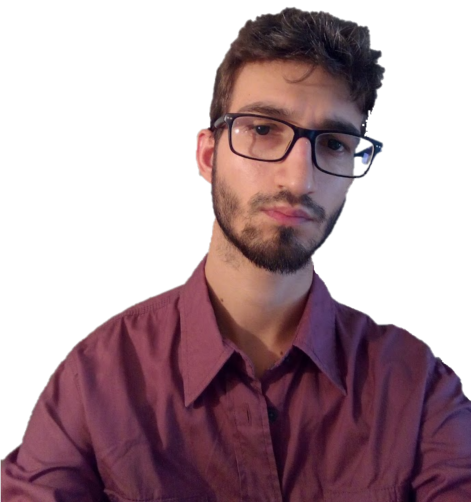
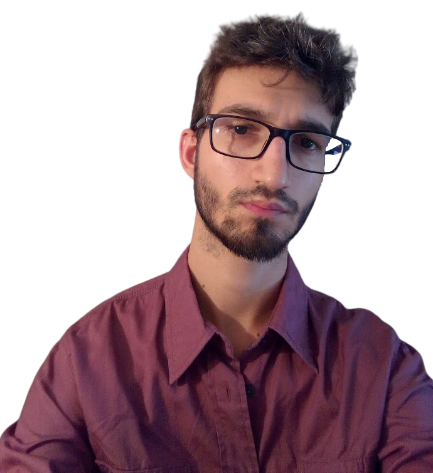
clean up images, fix footer responsiveness

diff --git a/about.html b/about.html
@@ -9,7 +9,7 @@
     <link rel="stylesheet" href="https://cdnjs.cloudflare.com/ajax/libs/font-awesome/6.1.0/css/all.min.css" integrity="sha512-10/jx2EXwxxWqCLX/hHth/vu2KY3jCF70dCQB8TSgNjbCVAC/8vai53GfMDrO2Emgwccf2pJqxct9ehpzG+MTw==" crossorigin="anonymous" referrerpolicy="no-referrer" />
     <link rel="preconnect" href="https://fonts.googleapis.com">
     <link rel="preconnect" href="https://fonts.gstatic.com" crossorigin>
-    <link href="https://fonts.googleapis.com/css2?family=Nunito+Sans:wght@200;400&family=Playfair+Display&family=Quicksand:wght@300&display=swap" rel="stylesheet">
+    <link href="https://fonts.googleapis.com/css2?family=Nunito+Sans:wght@200;400&family=Quicksand:wght@300&display=swap" rel="stylesheet">
     <title>Alessandro Belfiore</title>
 </head>
 <body>
@@ -48,14 +48,13 @@
             </div>
             <div class="row">
                 <div class="col hero">
-                    <!-- <div class="hero__background"></div> -->
-                    <div class="butterfly__div">
+                    <div class="butterfly__div centered">
                         <img class="butterfly" src="./img/butterfly.jpg" alt="picture of Alessandro">
                     </div>
                 </div>
                 <div class="col">
                     <p>I'm currently a student at the University of Pisa, where I got my BsC in Computer Science in 2020. I plan to achieve my MsC later in 2022 in the <i>Software: Programming and Principles</i> curriculum.</p>
-                    <p>I am particularly attracted to the study of the UX in different applications, spacing from websites to mobile apps and videogames. Hard core PC gamer, from Age of Empires to Portal, Skyrim and League of Legends I played dozens of different games. Besides playing, I enjoy discussing about design choices and balance, in particular in MMOs and competitive games, taking photos, going to the cinema and reading. And cats.</p>
+                    <p>I am attracted to the study of the UX in different applications, spacing from websites to mobile apps and videogames. Hard core PC gamer, from Age of Empires to Portal, Skyrim and League of Legends I played dozens of different games. Besides playing, I enjoy discussing about design choices and balance, in particular in MMOs and competitive games, taking photos, going to the cinema and reading. And cats.</p>
                 </div>
             </div>
             <hr class="divider">
@@ -67,13 +66,13 @@
 
     <footer class="footer">
         <div class="logos container">
-            <div class="row--mobile">
-                <ul class="logos__list">
+            <div class="row">
+                <ul class="centered logos__list">
                     <a href="https://github.com/alessandrobelfiore/" class="logos__link"><i class="fa-brands fa-github"></i></a>
                     <a href="" class="logos__link"><i class="fa-brands fa-linkedin"></i></a>
                     <a href="mailto:alessbelf@gmail.com" class="logos__link"><i class="fa-solid fa-envelope"></i></a>
                 </ul>
-                <div class="footer__copyright">
+                <div class="centered footer__copyright">
                     <h3 class="footer__text">Copyright &copy; 2022 Alessandro Belfiore</h3>
                 </div>
             </div>

diff --git a/projects.html b/projects.html
@@ -9,7 +9,7 @@
     <link rel="stylesheet" href="https://cdnjs.cloudflare.com/ajax/libs/font-awesome/6.1.0/css/all.min.css" integrity="sha512-10/jx2EXwxxWqCLX/hHth/vu2KY3jCF70dCQB8TSgNjbCVAC/8vai53GfMDrO2Emgwccf2pJqxct9ehpzG+MTw==" crossorigin="anonymous" referrerpolicy="no-referrer" />
     <link rel="preconnect" href="https://fonts.googleapis.com">
     <link rel="preconnect" href="https://fonts.gstatic.com" crossorigin>
-    <link href="https://fonts.googleapis.com/css2?family=Nunito+Sans:wght@200;400&family=Playfair+Display&family=Quicksand:wght@300&display=swap" rel="stylesheet">
+    <link href="https://fonts.googleapis.com/css2?family=Nunito+Sans:wght@200;400&family=Quicksand:wght@300&display=swap" rel="stylesheet">
     <title>Alessandro Belfiore</title>
 </head>
 <body>
@@ -66,7 +66,7 @@
                     <a  href="#"
                         class="project__link link"
                         target="_blank">
-                        <img src="img/zelda1.png" alt="unity2d project in game" class="project__image image--zelda">
+                        <img src="img/zelda.png" alt="unity2d project in game" class="project__image image--zelda">
                     </a>
                     </div>
                 <div class="col">
@@ -98,7 +98,7 @@
                     <a  href="https://github.com/alessandrobelfiore/SPM"
                         class="project__link link"
                         target="_blank">
-                        <img src="img/gol-gif1.gif" alt="cellular automaton" class="project__image image--cellular">
+                        <img src="img/gol.gif" alt="cellular automaton" class="project__image image--cellular">
                     </a>
                     </div>
                 <div class="col">
@@ -108,23 +108,18 @@
                     <p class="project__technologies">C++, FastFlow</p>
                 </div>
             </div>
-            
-<!--             <hr class="divider">
-            <div class="curriculum__download">
-                <a class="link--curriculum link" href="cv_march2022.pdf" download>Download my CV</a>
-            </div> -->
         </div>
     </div>
 
     <footer class="footer">
         <div class="logos container">
-            <div class="row--mobile">
-                <ul class="logos__list">
+            <div class="row">
+                <ul class="centered logos__list">
                     <a href="https://github.com/alessandrobelfiore/" class="logos__link"><i class="fa-brands fa-github"></i></a>
                     <a href="" class="logos__link"><i class="fa-brands fa-linkedin"></i></a>
                     <a href="mailto:alessbelf@gmail.com" class="logos__link"><i class="fa-solid fa-envelope"></i></a>
                 </ul>
-                <div class="footer__copyright">
+                <div class="centered footer__copyright">
                     <h3 class="footer__text">Copyright &copy; 2022 Alessandro Belfiore</h3>
                 </div>
             </div>

diff --git a/index.html b/index.html
@@ -9,7 +9,7 @@
     <link rel="stylesheet" href="https://cdnjs.cloudflare.com/ajax/libs/font-awesome/6.1.0/css/all.min.css" integrity="sha512-10/jx2EXwxxWqCLX/hHth/vu2KY3jCF70dCQB8TSgNjbCVAC/8vai53GfMDrO2Emgwccf2pJqxct9ehpzG+MTw==" crossorigin="anonymous" referrerpolicy="no-referrer" />
     <link rel="preconnect" href="https://fonts.googleapis.com">
     <link rel="preconnect" href="https://fonts.gstatic.com" crossorigin>
-    <link href="https://fonts.googleapis.com/css2?family=Nunito+Sans:wght@200;400&family=Playfair+Display&family=Quicksand:wght@300&display=swap" rel="stylesheet">
+    <link href="https://fonts.googleapis.com/css2?family=Nunito+Sans:wght@200;400&family=Quicksand:wght@300&display=swap" rel="stylesheet">
     <title>Alessandro Belfiore</title>
 </head>
 <body>
@@ -52,7 +52,7 @@
                 <div class="col">
                     <h2 style="font-weight: bold;">FrontEnd Developer / Coder</h2>
                     <hr class="divider">
-                    <p>I am particularly focused on the UX/UI of the projects. </p>
+                    <p>I am particularly focused on the UX/UI of my projects. </p>
                     <p>Lorem ipsum dolor sit amet consectetur adipisicing elit. Tempora adipisci illum eligendi inventore voluptas, ipsa porro fugit hic doloremque fuga accusantium molestias harum quae veniam blanditiis soluta! Inventore, saepe omnis?</p>   
                 </div>
             </div>
@@ -64,13 +64,13 @@
 
     <footer class="footer">
         <div class="logos container">
-            <div class="row--mobile">
-                <ul class="logos__list">
+            <div class="row">
+                <ul class="centered logos__list">
                     <a href="https://github.com/alessandrobelfiore/" class="logos__link"><i class="fa-brands fa-github"></i></a>
                     <a href="" class="logos__link"><i class="fa-brands fa-linkedin"></i></a>
                     <a href="mailto:alessbelf@gmail.com" class="logos__link"><i class="fa-solid fa-envelope"></i></a>
                 </ul>
-                <div class="footer__copyright">
+                <div class="centered footer__copyright">
                     <h3 class="footer__text">Copyright &copy; 2022 Alessandro Belfiore</h3>
                 </div>
             </div>

diff --git a/contacts.html b/contacts.html
@@ -9,7 +9,7 @@
     <link rel="stylesheet" href="https://cdnjs.cloudflare.com/ajax/libs/font-awesome/6.1.0/css/all.min.css" integrity="sha512-10/jx2EXwxxWqCLX/hHth/vu2KY3jCF70dCQB8TSgNjbCVAC/8vai53GfMDrO2Emgwccf2pJqxct9ehpzG+MTw==" crossorigin="anonymous" referrerpolicy="no-referrer" />
     <link rel="preconnect" href="https://fonts.googleapis.com">
     <link rel="preconnect" href="https://fonts.gstatic.com" crossorigin>
-    <link href="https://fonts.googleapis.com/css2?family=Nunito+Sans:wght@200;400&family=Playfair+Display&family=Quicksand:wght@300&display=swap" rel="stylesheet">
+    <link href="https://fonts.googleapis.com/css2?family=Nunito+Sans:wght@200;400&family=Quicksand:wght@300&display=swap" rel="stylesheet">
     <title>Alessandro Belfiore</title>
 </head>
 <body>
@@ -76,13 +76,13 @@
 
     <footer class="footer">
         <div class="logos container">
-            <div class="row--mobile">
-                <ul class="logos__list">
+            <div class="row">
+                <ul class="centered logos__list">
                     <a href="https://github.com/alessandrobelfiore/" class="logos__link"><i class="fa-brands fa-github"></i></a>
                     <a href="" class="logos__link"><i class="fa-brands fa-linkedin"></i></a>
                     <a href="mailto:alessbelf@gmail.com" class="logos__link"><i class="fa-solid fa-envelope"></i></a>
                 </ul>
-                <div class="footer__copyright">
+                <div class="centered footer__copyright">
                     <h3 class="footer__text">Copyright &copy; 2022 Alessandro Belfiore</h3>
                 </div>
             </div>

diff --git a/styles/style.css b/styles/style.css
@@ -39,31 +39,34 @@
 
 @media screen and (min-width: 550px) {
   .hero .image {
-    width: 392px;
-    height: 418px;
+    width: 393px;
+    height: 430px;
   }
   .hero__image {
-    width: 392px;
-    height: 418px;
+    width: 393px;
+    height: 430px;
   }
   .hero__background {
-    width: 392px;
-    height: 418px;
+    width: 393px;
+    height: 430px;
   }
 }
 
+/* @media screen and  (min-width: 550px) {
+    @include image_dim(361px, 480px);
+} */
 @media screen and (max-width: 550px) {
   .hero .image {
-    width: 327px;
-    height: 358px;
+    width: 333px;
+    height: 364px;
   }
   .hero__image {
-    width: 327px;
-    height: 358px;
+    width: 333px;
+    height: 364px;
   }
   .hero__background {
-    width: 327px;
-    height: 358px;
+    width: 333px;
+    height: 364px;
   }
 }
 
@@ -230,8 +233,12 @@ body {
   width: 100%;
 }
 
+.centered {
+  text-align: center;
+}
+
 .col + .col {
-  margin: 2em 0;
+  margin: 2em 0 0 0;
 }
 
 p + p {
@@ -272,6 +279,7 @@ p + p {
 
 .presentation {
   text-align: center;
+  margin-bottom: 1em;
 }
 
 .presentation__text {
@@ -346,6 +354,10 @@ p + p {
   -webkit-box-align: center;
       -ms-flex-align: center;
           align-items: center;
+  -webkit-box-pack: center;
+      -ms-flex-pack: center;
+          justify-content: center;
+  margin: 0.75em 0 0.5em 0;
 }
 
 .logo {
@@ -562,7 +574,10 @@ p + p {
             justify-content: space-between;
   }
   .col + .col {
-    margin: 0 0 2em 2em;
+    margin: 0 0 0 2em;
+  }
+  .footer__copyright {
+    margin: 0;
   }
 }
 /*# sourceMappingURL=style.css.map */

diff --git a/styles/style.scss b/styles/style.scss
@@ -33,8 +33,12 @@ body {
     width: 100%;
 }
 
+.centered {
+    text-align: center;
+}
+
 .col + .col {
-    margin: 2em 0;
+    margin: 2em 0 0 0;
 }
 
 p + p {
@@ -74,6 +78,7 @@ p + p {
 
 .presentation {
     text-align: center;
+    margin-bottom: 1em;
 
     &__text {
         font-family: 'Nunito Sans', sans-serif;
@@ -132,6 +137,8 @@ p + p {
     &__copyright {
         display: flex;
         align-items: center;
+        justify-content: center;
+        margin: 0.75em 0 0.5em 0;
     }
 }
 
@@ -310,6 +317,10 @@ p + p {
     }
 
     .col + .col {
-        margin: 0 0 2em 2em;
+        margin: 0 0 0 2em;
+    }
+
+    .footer__copyright {
+        margin: 0;
     }
 }

diff --git a/styles/_home.scss b/styles/_home.scss
@@ -45,8 +45,11 @@
 }
 
 @media screen and  (min-width: 550px) {
-    @include image_dim(392px, 418px);
+    @include image_dim(393px, 430px);
 }
+/* @media screen and  (min-width: 550px) {
+    @include image_dim(361px, 480px);
+} */
 @media screen and (max-width: 550px) {
-    @include image_dim(327px, 358px);
+    @include image_dim(333px, 364px);
 }

diff --git a/typewriter.js b/typewriter.js
@@ -24,4 +24,4 @@ function cursor_animation() {
 cursor_animation();
 typeWrite(" friend,");
 
-/* originally coded by James */
+/* idea by James */
